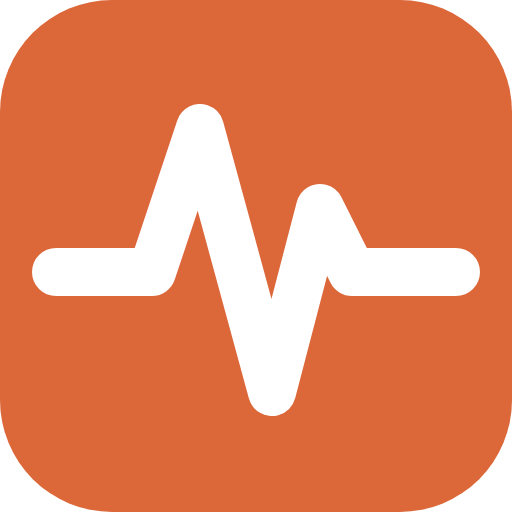
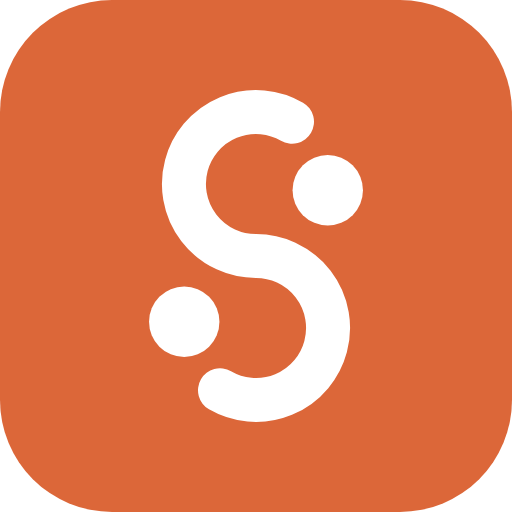
Replace heartbeat cut-out with a social 'S' symbol
Claude-Session: https://claude.ai/code/session_01Qrupx36nMDY9cDX912J65q

Changed region(s): [[0.0625, 0.1562, 0.9375, 0.8438]]

diff --git a/branding/README.md b/branding/README.md
@@ -1,6 +1,6 @@
 # SocialPulse logo
 
-Designed as a sibling of the DotStark logo: the same orange circle with a white cut-out line, next to a bold, dark, geometric wordmark. In SocialPulse the cut-out is a pulse line that enters through the left edge of the circle, the way DotStark's mark breaks its circle's edge.
+Designed as a sibling of the DotStark logo: the same orange circle with a white cut-out line, next to a bold, dark, geometric wordmark. In SocialPulse the cut-out is an "S" for Social, with a dot at each end: two people connected by a conversation.
 
 | File | Use |
 | --- | --- |
